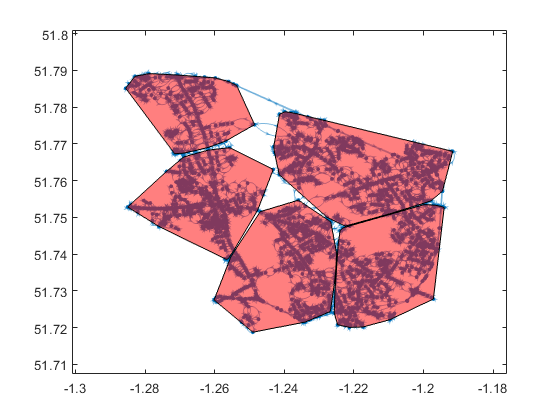
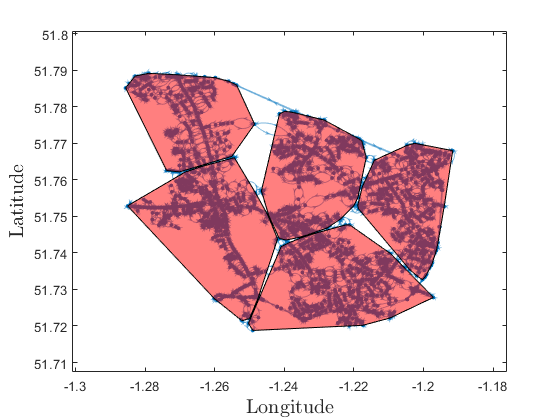
minor updates

diff --git a/solve_mdp/solve_congestedMDP_threadedv2.m b/solve_mdp/solve_congestedMDP_threadedv2.m
@@ -2,26 +2,33 @@
 convergence_tol = 1e-6;
 compute_true = true;
 use_congestion = true;
-alpha = 0.99;
+use_baseCost = false;
+alpha = 0.99; %  If use_congestion=1, this alpha is used only to compute the base cost
 %% Value Iteration
 % Initialize variables that we update during value iteration.
 % Cost (here it really is the reward):
 if compute_true
-    tic;
-    [costJ_base, policy_base] = valueIteration(g, P, alpha, 10000, convergence_tol);
-    graphPlot = plot_optimalEdge(G, policy_base);
-    toc
+    if use_baseCost
+        tic;
+        [costJ_base, policy_base] = valueIteration(g, P, alpha, 10000, convergence_tol);
+        graphPlot = plot_optimalEdge(G, policy_base);
+        toc
+    end
     
     if use_congestion
         alpha = 0.9;
-        congestion = min(1, 0.25 + rand(size(g)));
+        congestion = 0.25 + 0.75*rand(size(g));
         g_congested = g ./congestion;
     
         tic;
         [costJ, policy] = valueIteration(g_congested, P, alpha, 10000, convergence_tol);
         toc
-    else
+    elseif use_baseCost
         costJ = costJ_base;
+    else
+        tic;
+        [costJ, policy] = valueIteration(g, P, alpha, 10000, convergence_tol);
+        toc
     end
 
     % display the optained costs
@@ -57,13 +64,11 @@ else
     p = parpool('threads');
 end
 
-
 message_pool = parallel.pool.DataQueue;
 afterEach(message_pool, @relay);
 
 tic
 agentList = cell(nl,1);
-use_baseCost = false;
 for m = 1:nl
     agent.l = m; % Agent index
     agent.na = length(I{agent.l});
@@ -159,12 +164,12 @@ for m=1:nl
     xline(transmission_history{m}-tstart, '--', 'HandleVisibility','off');
 end
 % Create ylabel and xlabel
-ylabel('r','Interpreter','latex');
-xlabel({'time'},'Interpreter','latex');
+ylabel('r','Interpreter','latex', 'FontSize',15);
+xlabel({'time'},'Interpreter','latex', 'FontSize',15);
 legend1 = legend(axes1,'show');
 set(legend1,...
     'Position',[0.630153488465238 0.135317454356997 0.257941786016342 0.363095230147952],...
-    'Interpreter','latex');
+    'Interpreter','latex','FontSize',15);
 
 figure();
 plot_cost(costJ, costJ_agg, global_r, I);

diff --git a/usage_example.m b/usage_example.m
@@ -83,6 +83,8 @@ G = addnode(G, NodeProps);
 G = addedge(G, dest_node, length(G.Nodes.ID), 1);
 figure(10)
 graphPlot = plot(G, 'XData',G.Nodes.XData,'YData',G.Nodes.YData);
+xlabel('Longitude', 'FontSize',15, 'Interpreter','latex')
+ylabel('Latitude', 'FontSize',15, 'Interpreter','latex')
 %% Create Regions
 clustercount = 5;
 use_costAggregation = false;
@@ -137,7 +139,7 @@ for i = 1:nx
             arclen = distance('gc',...
                 [G.Nodes.XData(i),G.Nodes.YData(i)], ...
                 [G.Nodes.XData(N(j_index)),G.Nodes.YData(N(j_index))]);
-            g(i, N(j_index), j_index) = 60*deg2sm(arclen)/G.Edges.Weight(idxOut); 
+            g(i, N(j_index), j_index) = 60*deg2sm(arclen)/G.Edges.Weight(idxOut); % 60 to convert from hours to minutes
         end
     end
     P(i, i, outdegree(G,i)+1:nu) = 1;
@@ -170,3 +172,6 @@ for i = 1:nl
 %     Alternative even D
 %     D{i} = ones(size(I{i}))/length(I{i});
 end
+%% Solve congested MDP problem
+addpath('solve_mdp')
+solve_congestedMDP_threadedv2

diff --git a/solve_mdp/plot_cost.m b/solve_mdp/plot_cost.m
@@ -67,7 +67,7 @@ function plot_cost(costJ, costJ_agg, r, I)
     xlabel('Node number (sorted by $J^*$)','Interpreter','latex');
 
     % Set the remaining axes properties
-    set(axis,'TickLabelInterpreter','latex');
+    set(axis,'FontSize',15, 'TickLabelInterpreter','latex');
     % Create legend
     legend1 = legend(axis,'show');
     set(legend1,...
